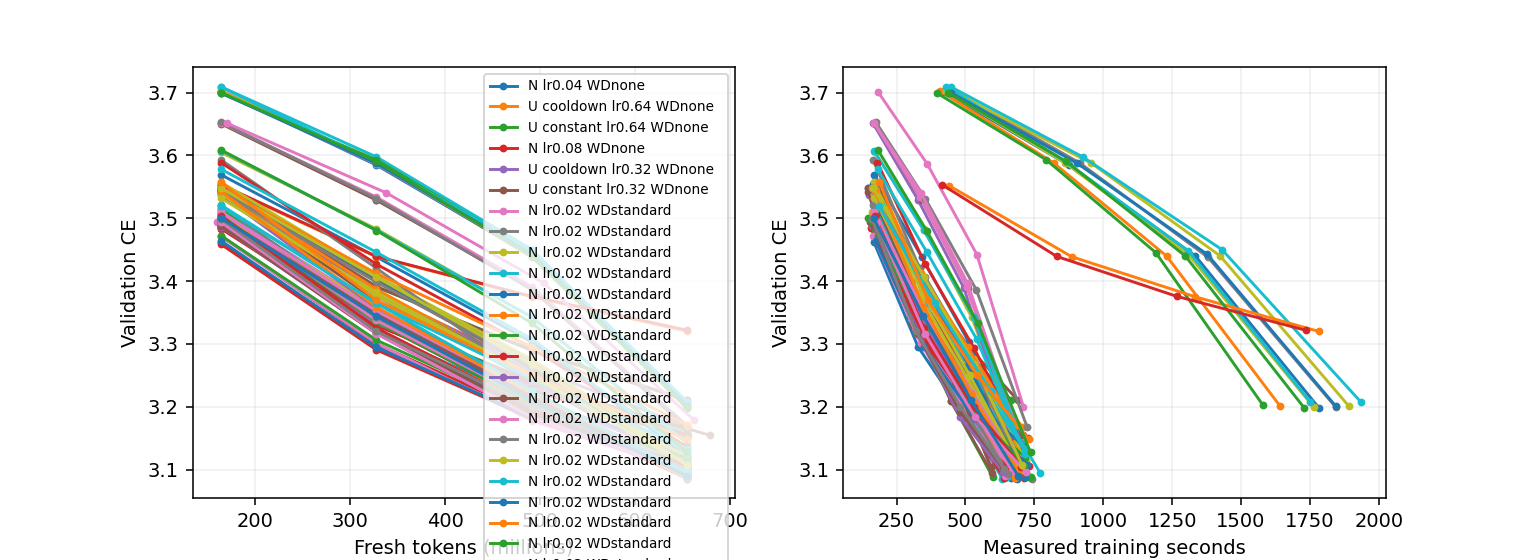
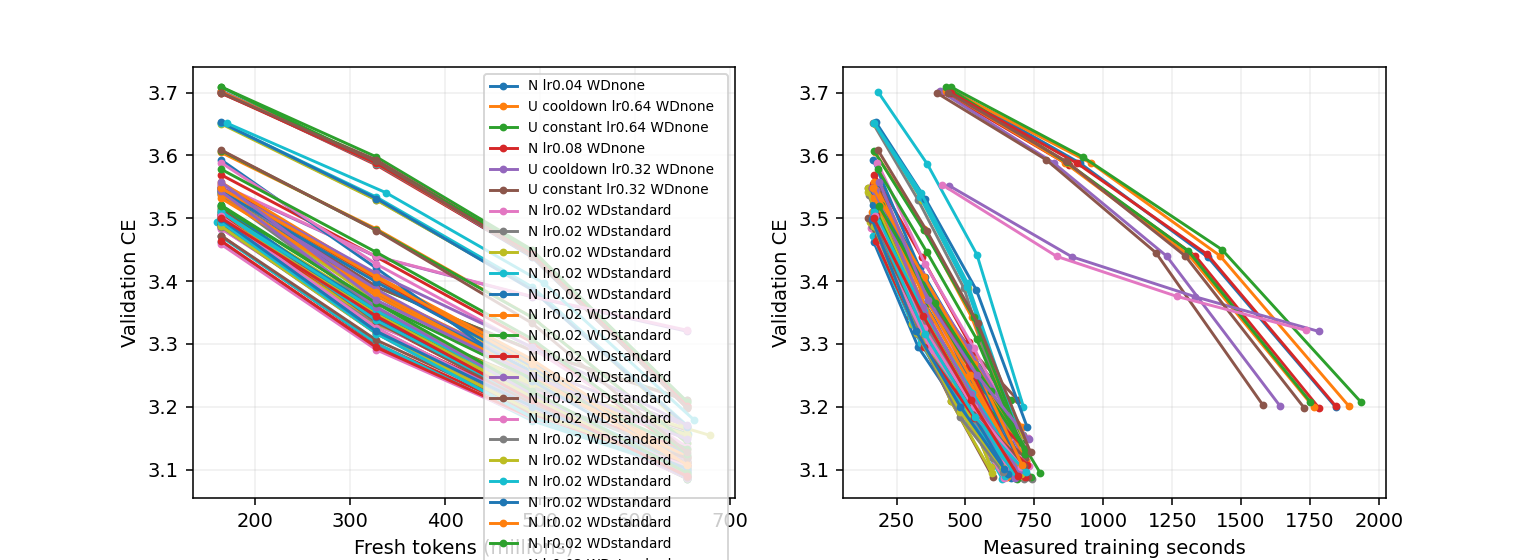
Update live Muon experiment results

diff --git a/research/unnormalized_muon/RESULTS.md b/research/unnormalized_muon/RESULTS.md
@@ -52,6 +52,7 @@ One B300 per job. CE is token cross-entropy (nats); lower is better. Rows with d
 | um-earlyalloc-confirm-early-s71 | Clean Native cooldown fixed_lambda=0.0459375 WD:standard(0) | 20000 | 71 | 0.02 | 3.086768 | 0.935854 | 3.128732 | 770.47 |
 | um-earlyalloc-confirm-early-s72 | Clean Native cooldown fixed_lambda=0.0459375 WD:standard(0) | 20000 | 72 | 0.02 | 3.097495 | 0.939100 | 3.138992 | 758.31 |
 | um-earlyalloc-confirm-early-s80 | Clean Native cooldown fixed_lambda=0.0459375 WD:standard(0) | 20000 | 80 | 0.02 | 3.090832 | 0.937032 | 3.130208 | 759.04 |
+| um-earlyalloc-confirm-early-s81 | Clean Native cooldown fixed_lambda=0.0459375 WD:standard(0) | 20000 | 81 | 0.02 | 3.090599 | 0.937002 | 3.131149 | 753.52 |
 | um-earlyalloc-confirm-history-check-002 | Clean Native cooldown fixed_lambda=0.0459375 WD:standard(0) | 128 | 0 | 0.02 | 5.910295 | 1.791403 | — | 61.07 |
 | um-earlyalloc-confirm-matched-s70 | Clean Native cooldown fixed_lambda=0.0551271 WD:standard(0) | 20000 | 70 | 0.02 | 3.091825 | 0.937357 | 3.133393 | 747.43 |
 | um-earlyalloc-confirm-matched-s71 | Clean Native cooldown fixed_lambda=0.0551271 WD:standard(0) | 20000 | 71 | 0.02 | 3.087015 | 0.935905 | 3.127414 | 743.56 |
@@ -59,6 +60,7 @@ One B300 per job. CE is token cross-entropy (nats); lower is better. Rows with d
 | um-earlyalloc-confirm-mid-s70 | Clean Native cooldown fixed_lambda=0.0459375 WD:standard(0) | 20000 | 70 | 0.02 | 3.088300 | 0.936291 | 3.130945 | 714.18 |
 | um-earlyalloc-confirm-mid-s71 | Clean Native cooldown fixed_lambda=0.0459375 WD:standard(0) | 20000 | 71 | 0.02 | 3.085330 | 0.935397 | 3.127163 | 769.38 |
 | um-earlyalloc-confirm-mid-s72 | Clean Native cooldown fixed_lambda=0.0459375 WD:standard(0) | 20000 | 72 | 0.02 | 3.098647 | 0.939434 | 3.137712 | 771.85 |
+| um-earlyalloc-confirm-mid-s81 | Clean Native cooldown fixed_lambda=0.0459375 WD:standard(0) | 20000 | 81 | 0.02 | 3.090870 | 0.937089 | 3.133066 | 717.19 |
 | um-earlyalloc-confirm-neutral-s70 | Clean Native cooldown fixed_lambda=0.0382798 WD:standard(0) | 20000 | 70 | 0.02 | 3.087880 | 0.936181 | 3.128062 | 806.59 |
 | um-earlyalloc-confirm-neutral-s71 | Clean Native cooldown fixed_lambda=0.0382798 WD:standard(0) | 20000 | 71 | 0.02 | 3.086275 | 0.935689 | 3.128008 | 700.68 |
 | um-earlyalloc-confirm-neutral-s72 | Clean Native cooldown fixed_lambda=0.0382798 WD:standard(0) | 20000 | 72 | 0.02 | 3.098150 | 0.939295 | 3.139013 | 712.74 |
@@ -285,7 +287,7 @@ Review of um-fw-diagnostic-001: Compiled training f0 compared against functional
 
 Review of um-earlyalloc-confirm-history-check-001: Invalid short check: horizon64 gives cooldown join22 before warmup40. Non-time runs intentionally ignore reference_updates override. early_reciprocal asserts warmup<join on first measured step. Fix check002 horizon128/join45 and fail-fast launcher validation; full20k arms unaffected.
 
-Conservative charged/reserved total: 43.7393 / 50 B300 GPU-hours. Includes prior smoke/failed attempts and current maximum-duration reservations. Six-slot central queue; one B300 per run.
+Conservative charged/reserved total: 43.9560 / 50 B300 GPU-hours. Includes prior smoke/failed attempts and current maximum-duration reservations. Six-slot central queue; one B300 per run.
 
 CLEAN geometry disables row equilibration and NorMuon. Original clean runs use zero matrix decay; new WD runs explicitly label standard or cautious decay and their CLI coefficient. Same five Polar Express steps and Frobenius correction; scale by the per-matrix nonnegative FP32 inner product of the native Nesterov input with the NS/Frobenius direction. Shape scaling occurs once outside the scalar. Legacy rows retain production extras and must be compared separately. Constant schedule changes only matrix LR; auxiliary schedules and momentum remain matched.
 

diff --git a/research/unnormalized_muon/DETAILED_EVAL.md b/research/unnormalized_muon/DETAILED_EVAL.md
@@ -22,12 +22,15 @@ All results use the B300 fork model/data/tokenizer and a fixed tuning-validation
 | normalized WD standard 0 | 0.02 | 20000 | 3.086768 | 712.18 | 770.47 |
 | normalized WD standard 0 | 0.02 | 20000 | 3.097495 | 698.50 | 758.31 |
 | normalized WD standard 0 | 0.02 | 20000 | 3.090832 | 694.93 | 759.04 |
+| normalized WD standard 0 | 0.02 | 20000 | 3.090599 | 690.72 | 753.52 |
+| normalized WD standard 0 | 0.02 | 20000 | 3.085357 | 711.18 | 0.00 |
 | normalized WD standard 0 | 0.02 | 20000 | 3.091825 | 685.49 | 747.43 |
 | normalized WD standard 0 | 0.02 | 20000 | 3.087015 | 680.93 | 743.56 |
 | normalized WD standard 0 | 0.02 | 20000 | 3.091281 | 700.68 | 779.60 |
 | normalized WD standard 0 | 0.02 | 20000 | 3.088300 | 650.49 | 714.18 |
 | normalized WD standard 0 | 0.02 | 20000 | 3.085330 | 685.93 | 769.38 |
 | normalized WD standard 0 | 0.02 | 20000 | 3.098647 | 688.60 | 771.85 |
+| normalized WD standard 0 | 0.02 | 20000 | 3.090870 | 642.94 | 717.19 |
 | normalized WD standard 0 | 0.02 | 20000 | 3.087880 | 726.88 | 806.59 |
 | normalized WD standard 0 | 0.02 | 20000 | 3.086275 | 639.78 | 700.68 |
 | normalized WD standard 0 | 0.02 | 20000 | 3.098150 | 657.07 | 712.74 |
@@ -310,6 +313,8 @@ The shifted reciprocal control uses eta_i(t)=eta_i0/(1+lambda eta_i0*t/2) after4
 | um-earlyalloc-confirm-early-s71 | early_reciprocal native | 0.04593747 | 20000 | 3.086768 | 0 | 770.47 |
 | um-earlyalloc-confirm-early-s72 | early_reciprocal native | 0.04593747 | 20000 | 3.097495 | 0 | 758.31 |
 | um-earlyalloc-confirm-early-s80 | early_reciprocal native | 0.04593747 | 20000 | 3.090832 | 0 | 759.04 |
+| um-earlyalloc-confirm-early-s81 | early_reciprocal native | 0.04593747 | 20000 | 3.090599 | 0 | 753.52 |
+| um-earlyalloc-confirm-early-s82 | early_reciprocal native | 0.04593747 | 20000 | 3.085357 | 0 | 0.00 |
 | um-earlyalloc-confirm-history-check-002 | early_reciprocal native | 0.04593747 | 128 | 5.910295 | 0 | 61.07 |
 | um-earlyalloc-confirm-matched-s70 | early_reciprocal native | 0.05512714 | 20000 | 3.091825 | 0 | 747.43 |
 | um-earlyalloc-confirm-matched-s71 | early_reciprocal native | 0.05512714 | 20000 | 3.087015 | 0 | 743.56 |
@@ -317,6 +322,7 @@ The shifted reciprocal control uses eta_i(t)=eta_i0/(1+lambda eta_i0*t/2) after4
 | um-earlyalloc-confirm-mid-s70 | early_reciprocal native | 0.04593747 | 20000 | 3.088300 | 0 | 714.18 |
 | um-earlyalloc-confirm-mid-s71 | early_reciprocal native | 0.04593747 | 20000 | 3.085330 | 0 | 769.38 |
 | um-earlyalloc-confirm-mid-s72 | early_reciprocal native | 0.04593747 | 20000 | 3.098647 | 0 | 771.85 |
+| um-earlyalloc-confirm-mid-s81 | early_reciprocal native | 0.04593747 | 20000 | 3.090870 | 0 | 717.19 |
 | um-earlyalloc-confirm-neutral-s70 | early_reciprocal native | 0.03827981 | 20000 | 3.087880 | 0 | 806.59 |
 | um-earlyalloc-confirm-neutral-s71 | early_reciprocal native | 0.03827981 | 20000 | 3.086275 | 0 | 700.68 |
 | um-earlyalloc-confirm-neutral-s72 | early_reciprocal native | 0.03827981 | 20000 | 3.098150 | 0 | 712.74 |
